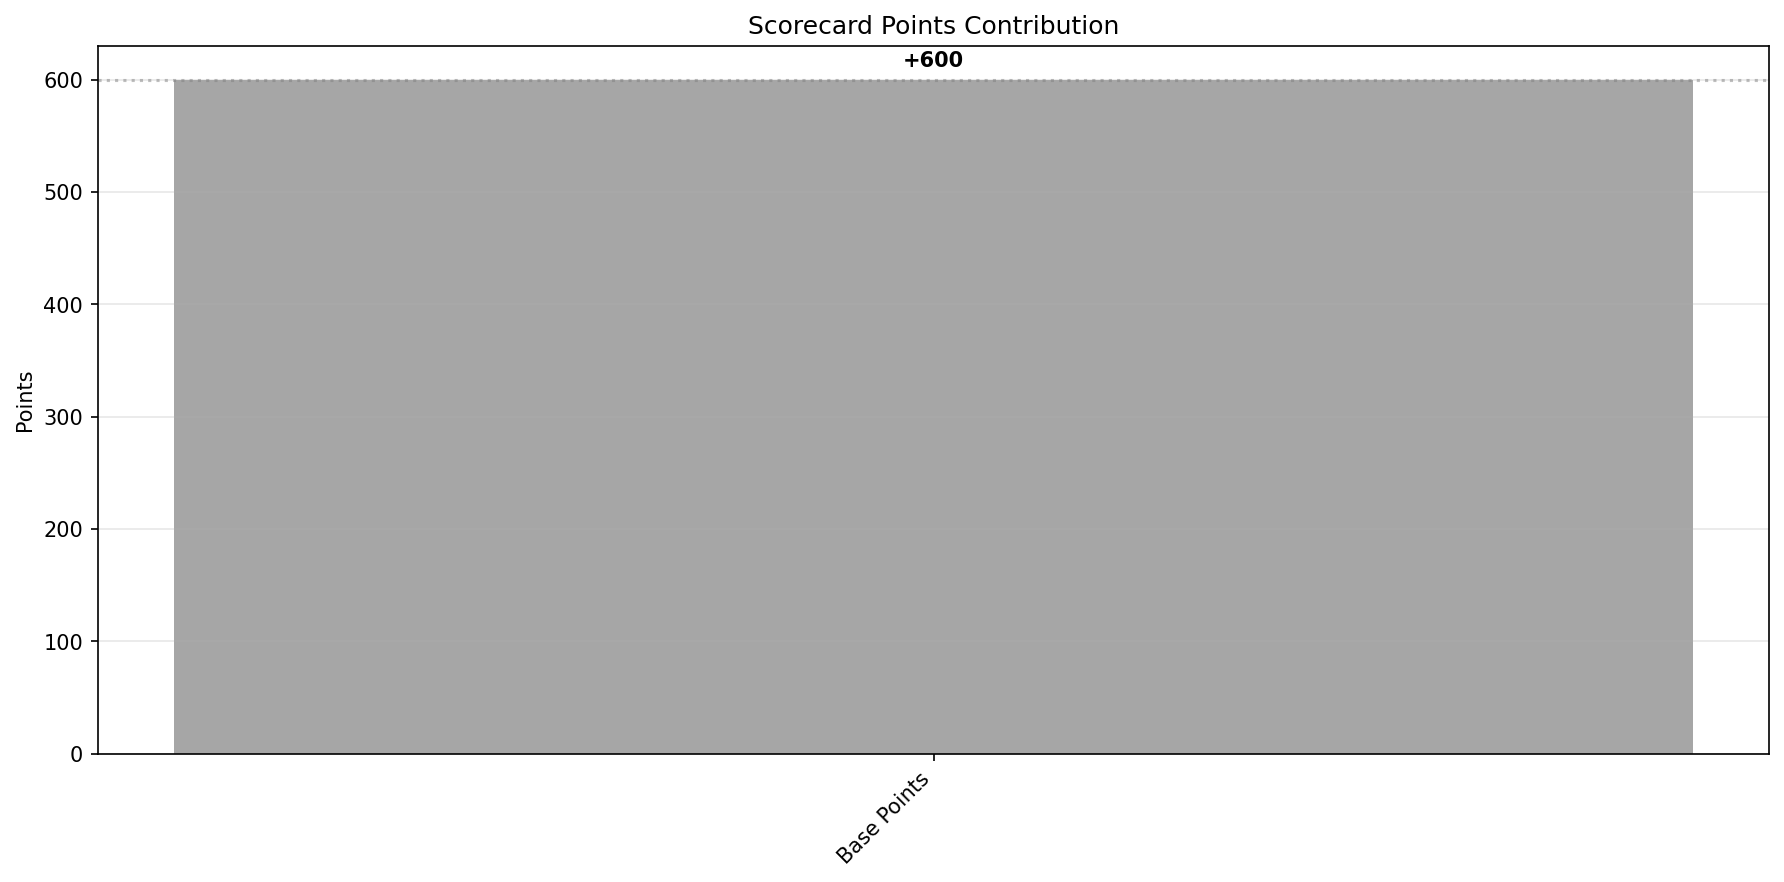
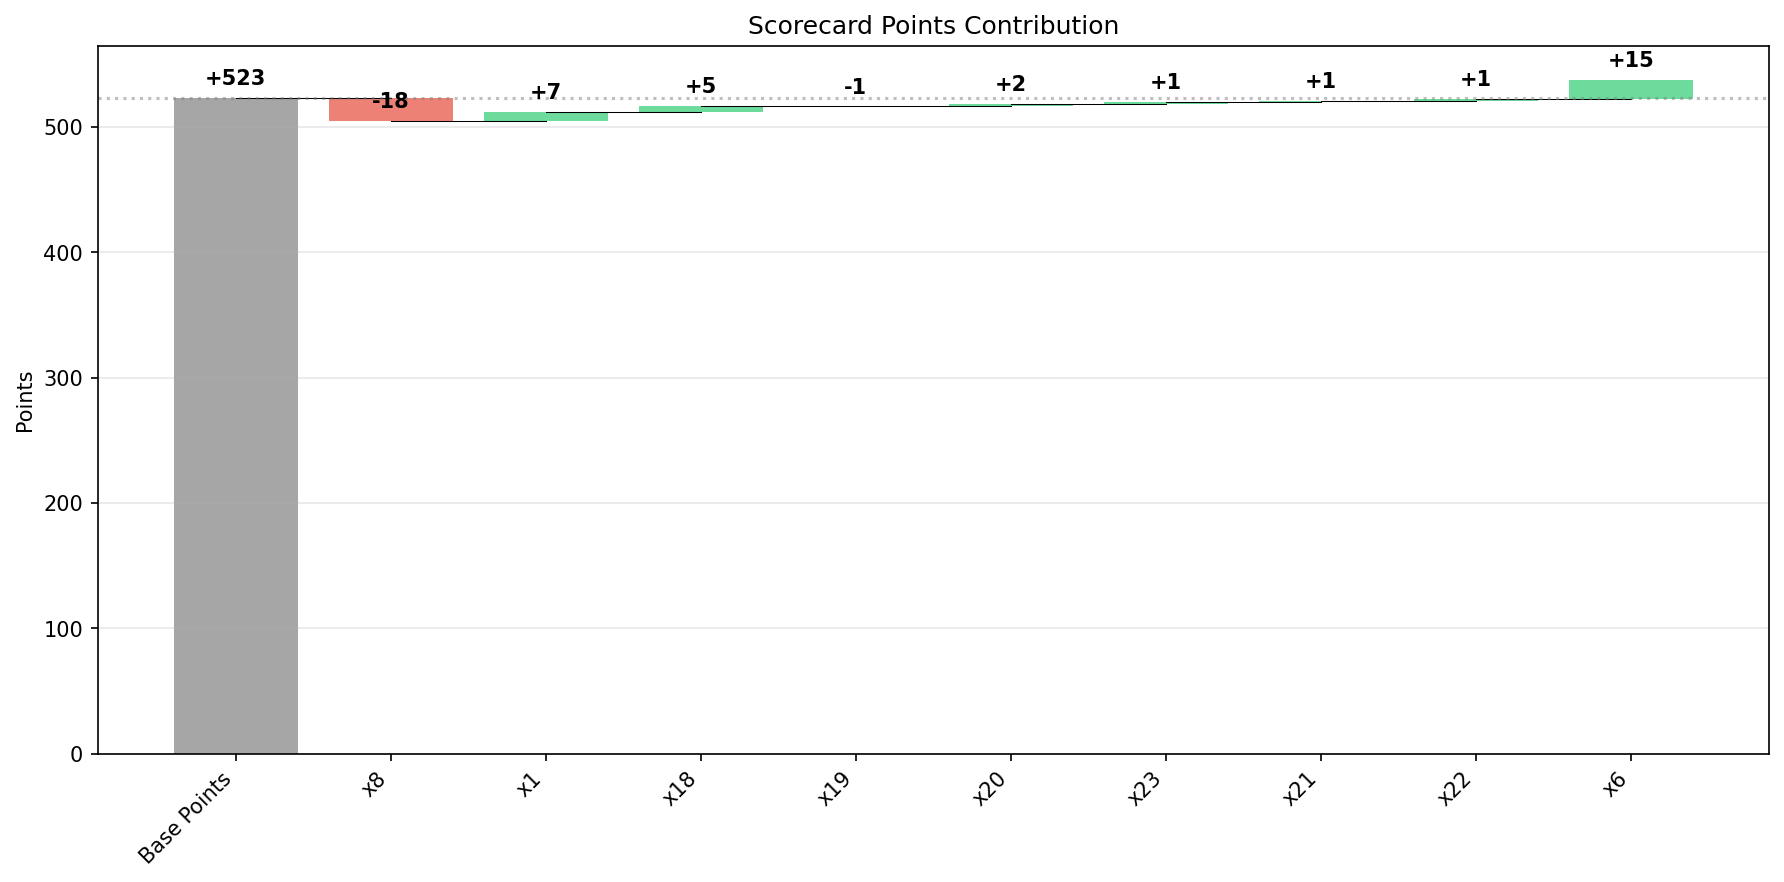
fix: correct scorecard waterfall bar positioning and use real per-feature deltas

diff --git a/ScoreCardModel/analytics/plotting.py b/ScoreCardModel/analytics/plotting.py
@@ -363,10 +363,9 @@ def plot_scorecard_waterfall(contributions: dict[str, float],
             ax.bar(i, values[i], color='gray', alpha=0.7)
             values[i]
         else:
-            ax.bar(i, values[i], bottom=running[i - 1] - values[i],
+            ax.bar(i, values[i], bottom=running[i - 1],
                    color=colors_list[i], alpha=0.7)
-            connector = running[i - 1]
-            ax.plot([i - 1, i - 1], [connector, connector], 'k-', lw=0.5)
+            ax.plot([i - 1, i], [running[i - 1], running[i - 1]], 'k-', lw=0.5)
 
         ax.text(i, running[i] + abs(max(values)) * 0.02,
                 f'{values[i]:+.0f}', ha='center', fontsize=10, fontweight='bold')
